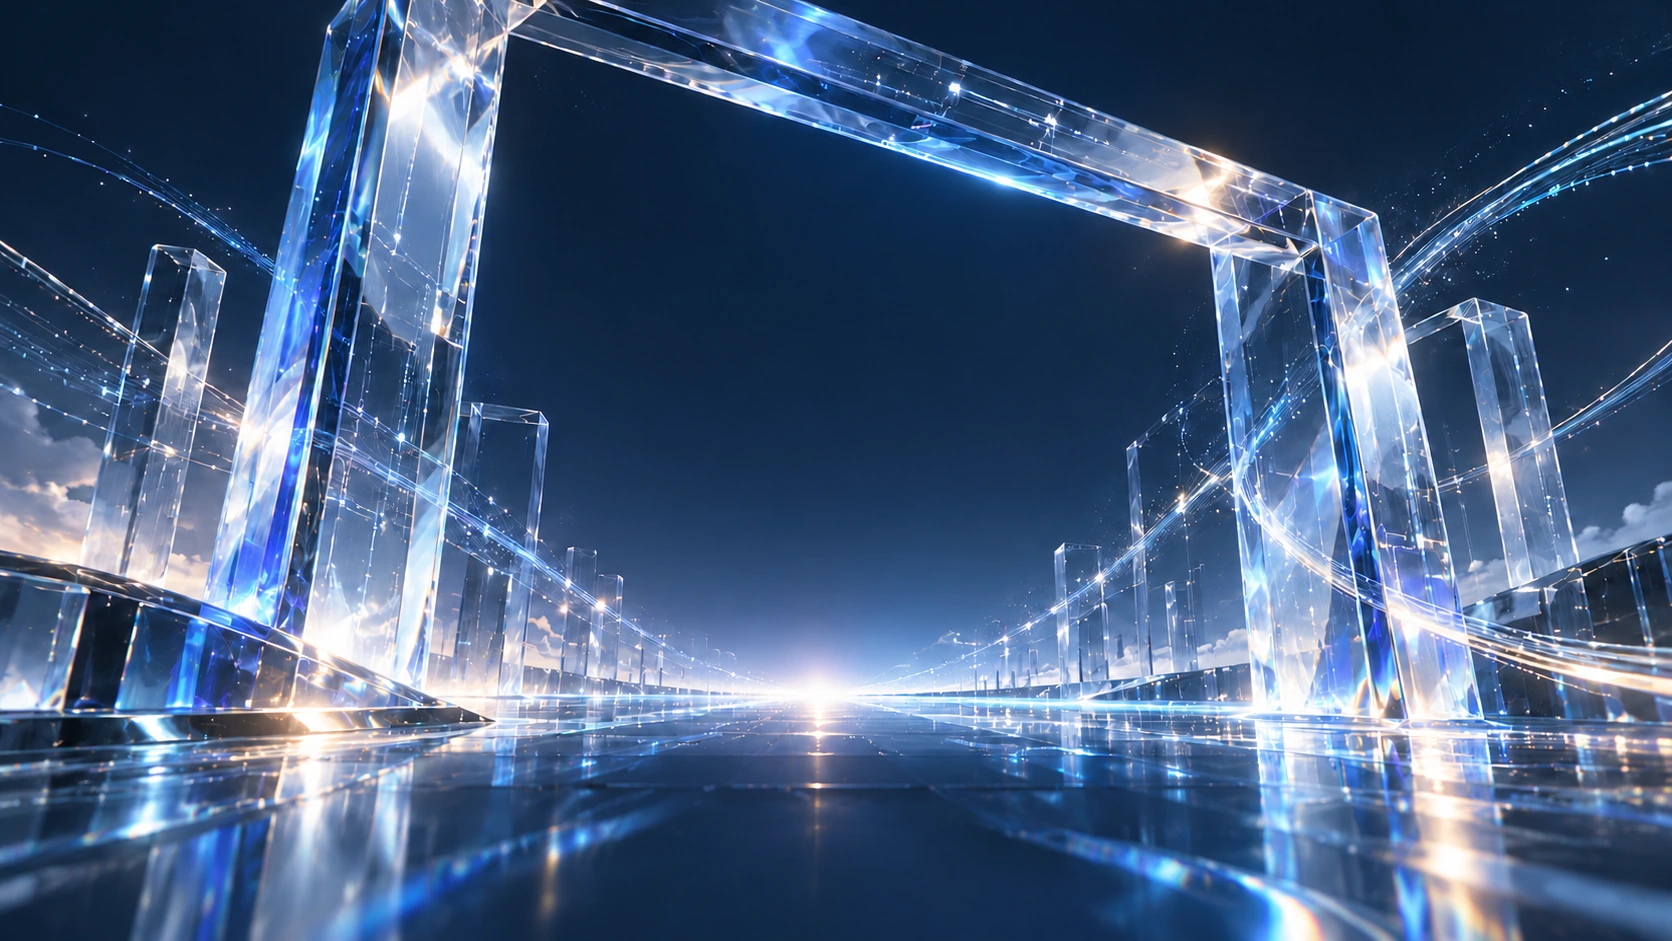
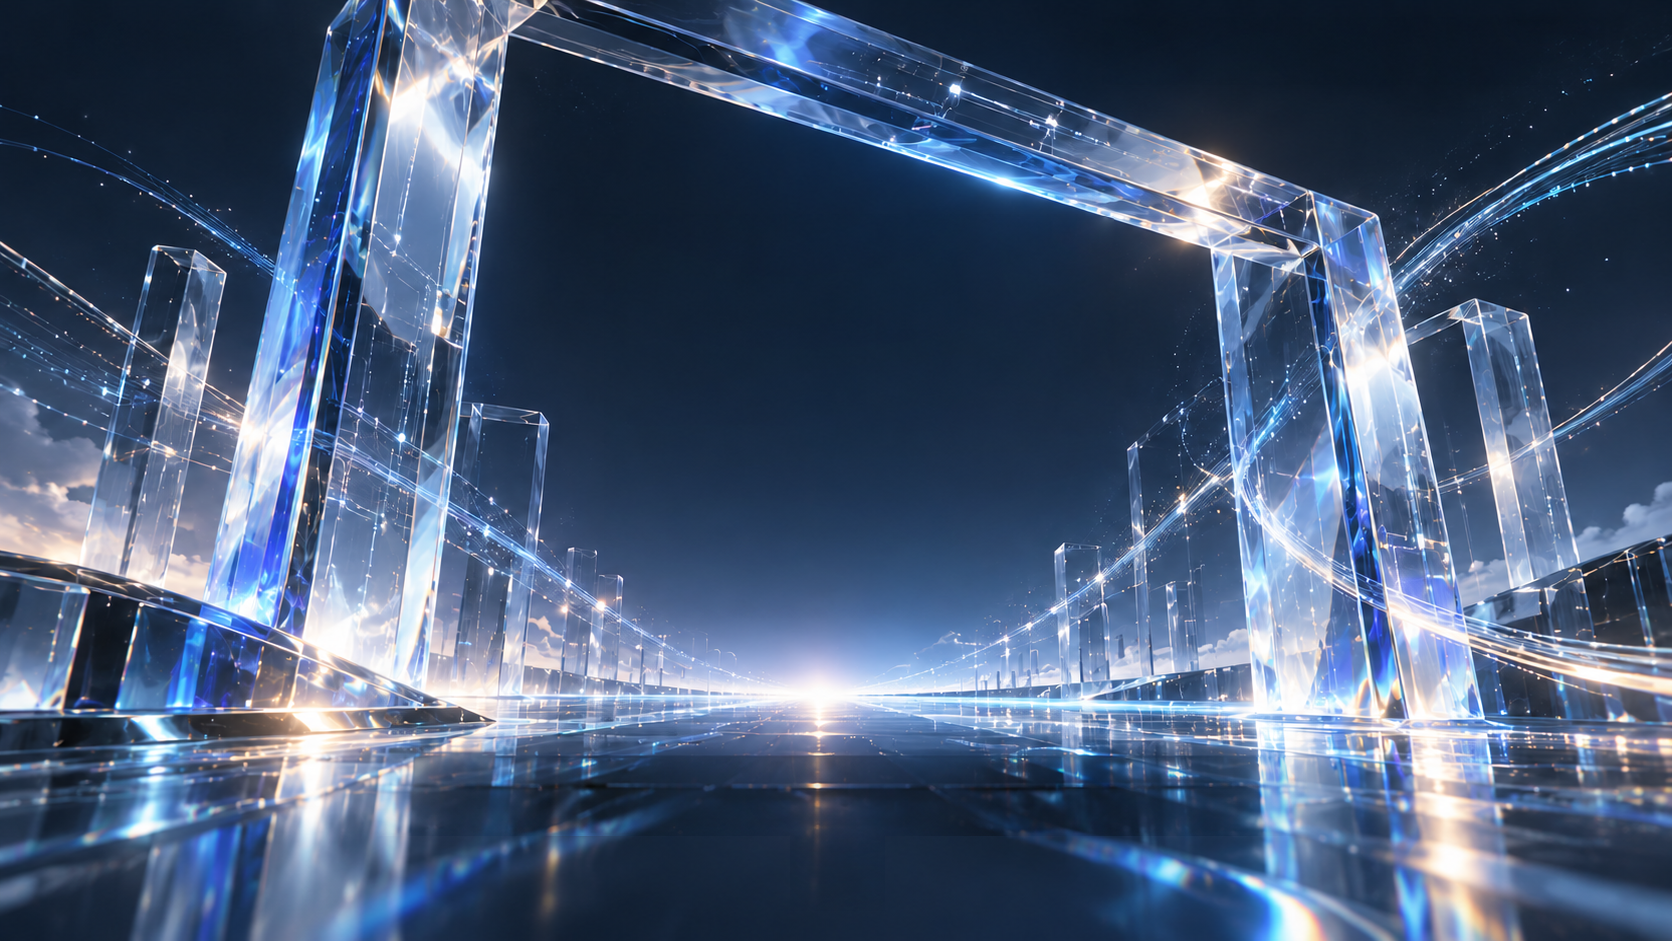
fix(首页): 还原参考图并简化文案与背景，发布 1.3.23

diff --git a/frontend/src/components/landing/PrismLanding.vue b/frontend/src/components/landing/PrismLanding.vue
@@ -99,16 +99,16 @@ const { explore, progress, pointerX, pointerY } = useLandingMotion(root)
 .camera-journey { height: 80svh; pointer-events: none; }
 .landing-screen { position: relative; width: 100%; height: 100svh; min-height: 540px; }
 .hero-copy { position: absolute; top: 23.9%; left: 50%; width: min(880px, 90%); text-align: center; transform: translateX(-50%); }
-.hero-eyebrow { margin: 0; color: #b4dcfa; font-size: clamp(12px, .9vw, 17px); line-height: 1.5; letter-spacing: .24em; font-weight: 400; }
-.hero-title { display: flex; flex-direction: column; margin: 12px 0 21px; font-size: clamp(44px, 4.9vw, 94px); line-height: 1.13; letter-spacing: .012em; font-weight: 700; color: #f5f8ff; text-shadow: 0 3px 18px rgb(5 16 32 / 12%); }
-.hero-title > span { transform: translateX(.38em); }
-.hero-title-second { color: #d5e9ff; }
-.hero-description { margin: 0; color: #d8e0ef; font-size: clamp(16px, 1.44vw, 27px); line-height: 1.65; font-weight: 400; letter-spacing: .015em; }
-.hero-actions { display: flex; align-items: center; justify-content: center; gap: 35px; margin-top: 30px; }
-.start-button { min-height: 62px; min-width: 190px; display: inline-flex; align-items: center; justify-content: center; gap: 17px; padding: 15px 30px; background: #fff9f1; border: 1px solid rgb(255 255 255 / 70%); border-radius: 999px; color: #111c2c; font-size: 18px; line-height: 1.5; font-weight: 600; text-decoration: none; box-shadow: 0 8px 35px rgb(137 185 255 / 8%); transition: transform 180ms ease, background 180ms ease, box-shadow 180ms ease; }
+.hero-eyebrow { margin: 0; color: #b4dcfa; font-size: clamp(12px, .86vw, 16px); line-height: 1.5; letter-spacing: .21em; font-weight: 400; }
+.hero-title { display: flex; flex-direction: column; margin: 14px 0 17px; font-size: clamp(44px, 4.9vw, 94px); line-height: 1.13; letter-spacing: .012em; font-weight: 600; color: #f5f8ff; text-shadow: 0 3px 18px rgb(5 16 32 / 12%); }
+.hero-title > span { display: block; transform: none; }
+.hero-title-second { color: #d5e9ff; background: linear-gradient(180deg, #f3faff 8%, #b9dafa 100%); background-clip: text; -webkit-background-clip: text; -webkit-text-fill-color: transparent; }
+.hero-description { margin: 0; color: #d8e0ef; font-size: clamp(16px, 1.4vw, 26px); line-height: 1.65; font-weight: 400; letter-spacing: .015em; }
+.hero-actions { display: flex; align-items: center; justify-content: center; gap: 35px; margin-top: 31px; }
+.start-button { min-height: clamp(48px, 3.71vw, 68px); min-width: clamp(152px, 11.36vw, 218px); display: inline-flex; align-items: center; justify-content: center; gap: 17px; padding: clamp(11px, .9vw, 17px) clamp(24px, 1.8vw, 34px); background: #fff9f1; border: 1px solid rgb(255 255 255 / 70%); border-radius: 999px; color: #111c2c; font-size: clamp(14px, 1.077vw, 20px); line-height: 1.5; font-weight: 600; text-decoration: none; box-shadow: 0 8px 35px rgb(137 185 255 / 8%); transition: transform 180ms ease, background 180ms ease, box-shadow 180ms ease; }
 .start-button :deep(svg) { width: 19px; height: 19px; }
 .start-button:hover { transform: translateY(-3px); background: #fff; box-shadow: 0 8px 36px rgb(157 204 255 / 22%); }
-.explore-link { display: inline-flex; align-items: center; gap: 10px; min-height: 48px; color: #f2f6ff; font-size: 18px; font-weight: 500; text-decoration: none; transition: color 180ms ease; }
+.explore-link { display: inline-flex; align-items: center; gap: 10px; min-height: 48px; color: #f2f6ff; font-size: clamp(14px, 1.077vw, 20px); font-weight: 500; text-decoration: none; transition: color 180ms ease; }
 .explore-link:hover { color: #b6dcff; }
 .explore-link :deep(svg) { width: 15px; height: 15px; }
 .hero-providers { position: absolute; bottom: 11.9%; left: 0; width: 100%; }
@@ -131,7 +131,7 @@ const { explore, progress, pointerX, pointerY } = useLandingMotion(root)
 .landing-footer { position: absolute; bottom: 30px; left: 5%; right: 5%; display: flex; align-items: center; justify-content: space-between; gap: 12px; color: #afc0d6; font-size: 12px; }
 .footer-tutorial { display: inline-flex; align-items: center; gap: 7px; }
 @media (min-width: 1800px) { .hero-title { margin-top: 28px; } .hero-actions { margin-top: 38px; } }
-@media (max-height: 760px) and (min-width: 701px) {
+@media (max-height: 620px) and (min-width: 701px) {
   .hero-copy { top: 22%; }
   .hero-title { font-size: min(5vw, 9.1svh); line-height: 1.13; margin: 12px 0 10px; }
   .hero-description { font-size: 19px; }
@@ -155,7 +155,6 @@ const { explore, progress, pointerX, pointerY } = useLandingMotion(root)
   .hero-providers { bottom: 12%; }
   .scroll-cue { bottom: 3.5%; font-size: 12px; gap: 5px; }
   .scroll-cue :deep(svg) { height: 24px; }
-  .hero-title > span { transform: translateX(.25em); }
   .explore-section { min-height: 100svh; padding: 80px 24px 100px; }
   .next-links { margin-top: 32px; }
   .next-link { gap: 15px; padding: 24px 0; }

diff --git a/frontend/src/components/landing/ProviderStrip.vue b/frontend/src/components/landing/ProviderStrip.vue
@@ -27,8 +27,8 @@ const providers = [
 </template>
 
 <style scoped>
-.provider-strip { display: flex; align-items: center; justify-content: center; width: max-content; max-width: calc(100% - 40px); min-height: 76px; padding: 14px 15px; margin: 0 auto; border: 1px solid rgb(222 238 255 / 34%); border-radius: 20px; background: rgb(29 48 72 / 14%); box-shadow: 0 10px 32px rgb(0 14 32 / 10%), inset 0 1px 0 rgb(255 255 255 / 34%), inset 0 -1px 0 rgb(200 224 255 / 18%); backdrop-filter: blur(12px) saturate(135%); -webkit-backdrop-filter: blur(12px) saturate(135%); }
-.provider-link { display: inline-flex; position: relative; align-items: center; justify-content: center; gap: 11px; padding: 0 21px; min-height: 44px; white-space: nowrap; font-size: 18px; line-height: 1.3; font-weight: 500; color: #fff; text-shadow: 0 1px 4px rgb(0 10 28 / 65%); text-decoration: none; transition: color 160ms ease, transform 160ms ease; }
+.provider-strip { font-family: Arial, 'Prism Sans SC', sans-serif; display: flex; align-items: center; justify-content: center; width: max-content; max-width: calc(100% - 40px); min-height: 66px; padding: 10px 8px; margin: 0 auto; border: 0; border-radius: 0; background: rgb(12 24 40 / 12%); box-shadow: none; backdrop-filter: blur(2px); -webkit-backdrop-filter: blur(2px); }
+.provider-link { display: inline-flex; position: relative; align-items: center; justify-content: center; gap: 11px; padding: 0 18px; min-height: 44px; white-space: nowrap; font-size: 18px; line-height: 1.3; font-weight: 400; color: #f7f8fc; text-shadow: 0 1px 3px rgb(0 10 28 / 30%); text-decoration: none; transition: color 160ms ease, transform 160ms ease; }
 .provider-link + .provider-link::before { content: ''; position: absolute; top: 50%; left: 0; width: 1px; height: 19px; transform: translateY(-50%); background: #8c98ac; opacity: .7; }
 .provider-link img { width: 36px; height: 36px; object-fit: contain; flex-shrink: 0; filter: drop-shadow(0 1px 5px rgb(65 116 255 / 16%)); }
 .provider-link:hover { color: #c5e4ff; transform: translateY(-2px); }

diff --git a/frontend/src/components/landing/LandingHeader.vue b/frontend/src/components/landing/LandingHeader.vue
@@ -45,7 +45,7 @@ onUnmounted(() => document.removeEventListener('pointerdown', closeOutside))
 </template>
 
 <style scoped>
-.landing-header { position: absolute; z-index: 3; top: 0; left: 0; width: 100%; display: flex; align-items: center; justify-content: space-between; gap: 24px; padding: 10px 4.85%; border-bottom: 1px solid rgb(215 234 255 / 10%); background: rgb(15 30 50 / 8%); backdrop-filter: blur(8px) saturate(120%); -webkit-backdrop-filter: blur(8px) saturate(120%); box-shadow: 0 4px 24px rgb(0 8 24 / 4%), inset 0 1px 0 rgb(255 255 255 / 5%); }
+.landing-header { position: absolute; z-index: 3; top: 0; left: 0; width: 100%; display: flex; align-items: center; justify-content: space-between; gap: 24px; padding: 10px 4.85%; border-bottom: 1px solid transparent; background: transparent; backdrop-filter: none; -webkit-backdrop-filter: none; box-shadow: none; }
 .landing-brand { display: inline-flex; align-items: center; gap: 12px; min-width: 0; max-width: 48%; font-size: clamp(23px, 1.6vw, 29px); line-height: 1.2; font-weight: 600; letter-spacing: -.4px; color: #f7f7fa; text-decoration: none; }
 .brand-logo { width: 34px; height: 34px; flex-shrink: 0; border-radius: 9px; object-fit: contain; }
 .brand-name { min-width: 0; overflow-wrap: anywhere; }

diff --git a/frontend/src/i18n/locales/en/landing.ts b/frontend/src/i18n/locales/en/landing.ts
@@ -7,8 +7,8 @@ export default {
   home: {
     prism: {
       navigation: 'Home navigation', menu: 'Navigation menu', theme: 'Theme', models: 'Models', tutorial: 'Getting started',
-      titleFirst: 'Connect intelligence.', titleSecond: 'Create what’s next.',
-      description: 'One API for leading global and Chinese AI models.',
+      titleFirst: 'Connect intelligence', titleSecond: 'Create what’s next',
+      description: 'One API for leading global AI models',
       start: 'Get started', exploreModels: 'Explore models', more: 'More', scroll: 'Scroll to explore',
       nextTitle: 'Start here.', modelsDescription: 'Find your model. Explore capabilities and pricing.',
       tutorialDescription: 'Learn about signup, balance, API keys, and client setup.', tutorialNewTab: 'Getting started (opens in a new tab)',

diff --git a/frontend/src/i18n/locales/zh/landing.ts b/frontend/src/i18n/locales/zh/landing.ts
@@ -7,8 +7,8 @@ export default {
   home: {
     prism: {
       navigation: '首页导航', menu: '导航菜单', theme: '主题', models: '模型广场', tutorial: '新手教程',
-      titleFirst: '连接智能，', titleSecond: '让创造发生。',
-      description: '一个 API，接入全球与国产主流模型。',
+      titleFirst: '连接智能', titleSecond: '让创造发生',
+      description: '一个 API，接入全球主流模型',
       start: '开始使用', exploreModels: '探索模型', more: '更多', scroll: '向下探索',
       nextTitle: '从这里开始。', modelsDescription: '选择适合你的模型，查看能力与价格。',
       tutorialDescription: '了解注册、充值、密钥创建和客户端配置。', tutorialNewTab: '新手教程（新标签页打开）',

diff --git a/frontend/src/components/landing/PrismScene.vue b/frontend/src/components/landing/PrismScene.vue
@@ -62,6 +62,7 @@ onUnmounted(() => {
 
 <style scoped>
 .prism-scene, .scene-art, .depth-canvas { position: absolute; inset: 0; width: 100%; height: 100%; }
+.prism-scene { filter: brightness(.92); }
 .scene-art { object-fit: cover; object-position: center; }
 .depth-canvas { opacity: 0; pointer-events: none; }
 </style>

diff --git a/design-qa.md b/design-qa.md
@@ -52,3 +52,34 @@ final result: passed
 - 模型玻璃改为 14% 底色、12px 模糊、135% 饱和度，减轻阴影与内高光，保留原文字阴影。
 - 发布前在 108 正式首页的内置浏览器用临时样式覆写完成对照；1672×941 实测顶栏由 103.22px 降为 63px，390×844 为 57px且页面宽度仍为 390px。手机菜单展开及 Escape 关闭正常。覆写在验收后通过刷新清除，视口模拟恢复。
 - 首页 22 项回归、ESLint、Vue 类型检查及生产构建通过。最终正式部署证据另存工作区 outputs/homepage-design-20261031/。
+
+## 1.3.23 参考图还原与文案修订
+
+- 用户指定最新参考：C:/Users/Administrator/AppData/Local/Temp/codex-clipboard-12648cd3-f271-4bea-813e-af2f7423787a.png，1672×941。
+- 覆盖此前玻璃风格调整：顶栏去背景、模糊和阴影；模型栏去圆角亮边、降低至2px模糊并恢复原稿尺寸。
+- 保留已接受的按钮、63px/57px单行顶栏、站内Logo和名称、隐藏主题切换、手机菜单。
+- 中文大标题不带标点；副标题为“一个 API，接入全球主流模型”。英文同步简化。
+- 背景基于原图和已有生成的无字素材修复，只处理原UI遮挡区域，其余78.14%的原始像素完全保留。WebP无损存储，原始1672×941比例。
+- 按用户最新要求，整个背景层使用brightness(.92)，文字与按钮不随之变暗。
+
+### 对照迭代
+1. 原1.3.22存在P1偏差：额外玻璃边框、蓝色偏亮；P2标题标点和视觉偏移、低屏高断点导致比例变化。
+2. reference-restoration-layout-v1.png：取消玻璃装饰与标点；仍可见原无字底图色差。
+3. reference-restoration-layout-v2.png：用原图保留区域恢复色调与建筑细节。
+4. reference-restoration-preview-desktop.png及reference-restoration-typography.png：校准字重600、文字渐变、排版间距，删除标点补偿偏移。
+5. 用户最新修订后：reference-restoration-preview-final.png，加入简化副标题与92%背景亮度。
+6. 同批完整与局部对照：reference-restoration-comparison-final.png、reference-restoration-typography-final.png。上述证据均位于工作区根outputs/homepage-design-20261031/。
+
+### 五项检查与边界
+- 字体：本地Noto Sans SC，82px/600；字号与参考接近，生成图的文字材质及抗锯齿有微小差异（P3）。
+- 布局：1672×941 CSS视口、1倍密度截图；建筑不做额外裁切；标题与CTA位置对齐。导航高度、Logo、无标点和短副标题是用户明确要求的差异。
+- 颜色：无字区域复用原始像素，减亮8%是用户要求；不宣称修补区域与被文字遮挡的未知背景像素完全一致。
+- 图像：保留真实建筑、品牌Logo、近远层推进；生成服务502/503后复用已有无字资产，不引入另一套场景。
+- 文案：主标题“连接智能 / 让创造发生”；副标题“一个 API，接入全球主流模型”；中英文入口不变。
+
+### 验证
+- 108正式IP的内置浏览器临时样式预览，未用localhost作为交付验收。
+- 390×844手机预览：无横向溢出，头部57px，按钮与模型入口均可见。
+- 22项首页回归、3项语言键检查、ESLint、Vue类型检查与生产构建通过。
+- 发布后仍需刷新核对真实产物，清除所有临时样式与图片覆写，并复查滚动、手机菜单及控制台。
+- 当前视觉对照无待修的P0/P1/P2；正式部署验证结果另存工作区证据目录。

diff --git a/changelog/1.3.23/CHANGELOG.md b/changelog/1.3.23/CHANGELOG.md
@@ -1,0 +1,8 @@
+# 1.3.23
+
+## 首页
+- 按选定效果图校正背景构图、色调和文字排版，撤回额外的玻璃边框与导航背景。
+- 主标题去掉标点，副标题简化为“一个 API，接入全球主流模型”。
+- 背景亮度轻降 8%，首屏与滚动场景使用相同亮度；标题和按钮亮度不受影响。
+- 保留精简顶栏、配置站名与 Logo、隐藏主题按钮以及移动端单行菜单。
+- 模型栏恢复原图的轻量样式，并保留真实品牌 Logo 和模型入口。
